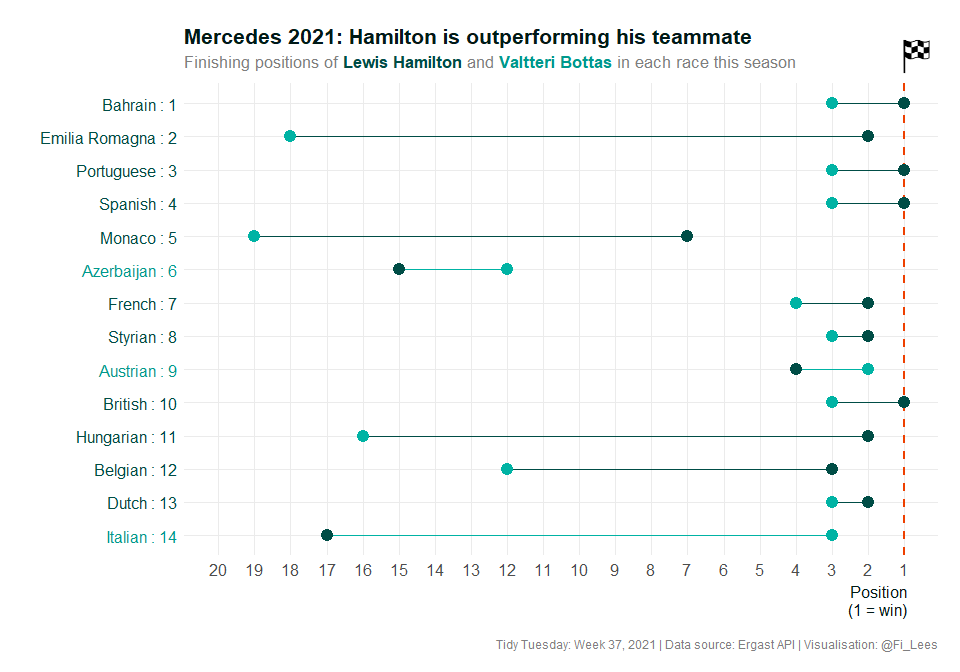
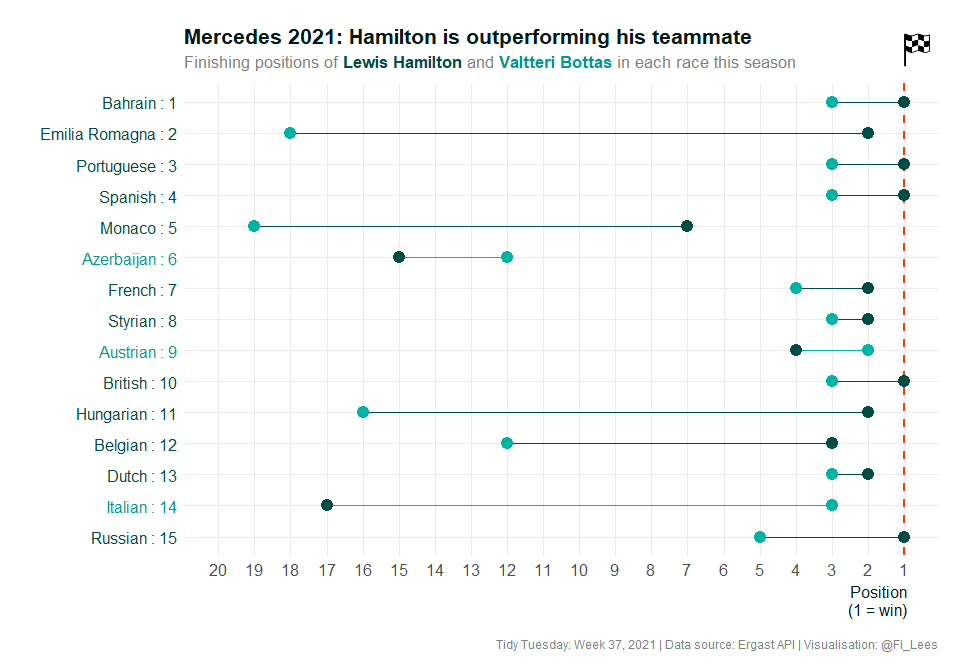
Adding most recent data

diff --git a/TT_2021_W37_Formula_1/README.md b/TT_2021_W37_Formula_1/README.md
@@ -1,3 +1,14 @@
+---
+title: "Tidy Tuesday: 2021, Week 37, Formula One"
+author: "Fiona Lees"
+date: 2021-09-27
+output: 
+  html_document: 
+    keep_md: yes
+---
+
+
+
 ## Formula One Motor Racing
 The data this week comes from the [Ergast API](https://ergast.com/mrd/db/#csv). The Ergast Developer API is an experimental web service that provides a historical record of motor racing data for non-commercial purposes. The API provides data for the Formula One series, from the beginning of the world championships in 1950 until present day.  
 
@@ -23,7 +34,7 @@ library(tidyverse)
 ```
 
 ### Import Data
-This week I'm importing the data directly from the Ergast website and storing it locally. 
+This week I'm importing the data directly from the Ergast website (so that I can use the most recent results). 
 
 
 ```r
@@ -173,7 +184,7 @@ results_new %>%
 ## 6  2018    21    21
 ## 7  2019    21    21
 ## 8  2020    16    17
-## 9  2021    14    14
+## 9  2021    15    15
 ```
 
   
@@ -267,7 +278,7 @@ results_new %>%
 ## 16  2018       42         42
 ## 17  2019       42         42
 ## 18  2020       34         34
-## 19  2021       28         28
+## 19  2021       30         30
 ```
 
   
@@ -294,7 +305,7 @@ constructor_results_new %>%
 
   
 **Q:** Where did the Mercedes and Red Bull drivers finish in each race this season (2021)?  
-**A:** Red Bull have finished first in eight races (Verstappen 7 wins, Pérez 1 win). Mercedes have finished first four times (Hamilton 4 wins, Bottas 0 wins). There have only been two races this season where either a Mercedes or Red Bull driver did not win.  
+**A:** Red Bull have finished first in eight races (Verstappen 7 wins, Pérez 1 win). Mercedes have finished first five times (Hamilton 5 wins, Bottas 0 wins). There have only been two races this season where a Mercedes or Red Bull driver did not win (races 11 and 14).  
 
 
 ```r
@@ -423,29 +434,26 @@ Mercedes_2021 <- results_new %>%
   # Add the checkered flag image to sit above the 'finishing line'
   patchwork::inset_element(
     p = check_flag_image,
-    l = 0.939,
+    l = 0.94,
     b = 0.89,
     r = 0.99,
-    t = 0.97,
+    t = 0.99,
     align_to = "full"
   ) 
 
 Mercedes_2021
 ```
 
-<img src="README_files/figure-html/Visualise_mercedes_2021-1.png" width="100%" style="display: block; margin: auto;" />
+<img src="README_files/figure-html/Visualise_mercedes_2021-1.png" title="Connected dot plot (also known as a dumbbell plot), showing the finishing positions of Formula 1 Mercedes drivers Lewis Hamilton and Valtteri Bottas in each race this season. Hamilton has won five out fifteen races in the 2021 season so far. Bottas hasn't won any races yet, but has finished ahead of Hamilton in three races." alt="Connected dot plot (also known as a dumbbell plot), showing the finishing positions of Formula 1 Mercedes drivers Lewis Hamilton and Valtteri Bottas in each race this season. Hamilton has won five out fifteen races in the 2021 season so far. Bottas hasn't won any races yet, but has finished ahead of Hamilton in three races." width="100%" style="display: block; margin: auto;" />
 
 Save this visualisation:
 
 
 ```r
-ggsave("Mercedes_2021.png", Mercedes_2021, width = 12, height = 8, units = "in")
+ggsave("Mercedes_2021.png", Mercedes_2021, width = 12, height = 8, units = "in", dpi = 300)
 ```
 
-**Alt text for Mercedes_2021.png:**
-Connected dot plot (also known as a dumbbell plot), showing the finishing positions of Formula 1 Mercedes drivers Lewis Hamilton and Valtteri Bottas in each race this season (2021). Hamilton has won four out fourteen races in the 2021 season. Bottas hasn't won any yet, but has finished ahead of Hamilton in three races. The 2021 season hasn't finished yet. Data sourced from Ergast API (https://ergast.com/mrd/db/#csv).
 
-  
   
 #### Mercedes vs. Red Bull 2021
 
@@ -489,7 +497,7 @@ Mercedes_Redbull_2021 <- results_new %>%
   coord_flip() +
   patchwork::inset_element(
     p = check_flag_image,
-    l = 0.939,
+    l = 0.94,
     b = 0.85,
     r = 0.99,
     t = 0.95,
@@ -499,16 +507,15 @@ Mercedes_Redbull_2021 <- results_new %>%
 Mercedes_Redbull_2021
 ```
 
-<img src="README_files/figure-html/Visualise_mercedes_Redbull_2021-1.png" width="100%" style="display: block; margin: auto;" />
+<img src="README_files/figure-html/Visualise_mercedes_Redbull_2021-1.png" title="Connected dot plot (also known as a dumbbell plot), showing the finishing positions of Formula 1 Mercedes and Red Bull drivers in each race this season (2021). Red Bull have finished first in eight races (Verstappen 7 wins, Pérez 1 win). Mercedes have finished first five times (Hamilton 5 wins, Bottas 0 wins). There have only been two races this season where a Mercedes or Red Bull driver did not win." alt="Connected dot plot (also known as a dumbbell plot), showing the finishing positions of Formula 1 Mercedes and Red Bull drivers in each race this season (2021). Red Bull have finished first in eight races (Verstappen 7 wins, Pérez 1 win). Mercedes have finished first five times (Hamilton 5 wins, Bottas 0 wins). There have only been two races this season where a Mercedes or Red Bull driver did not win." width="100%" style="display: block; margin: auto;" />
 Save this visualisation:
 
 
 ```r
-ggsave("Mercedes_Redbull_2021.png", Mercedes_Redbull_2021, width = 12, height = 8, units = "in")
+ggsave("Mercedes_Redbull_2021.png", Mercedes_Redbull_2021, width = 12, height = 8, units = "in", dpi = 300)
 ```
 
-**Alt text for Mercedes_2021.png:**
-Connected dot plot (also known as a dumbbell plot), showing the finishing positions of Formula 1 Mercedes and Red Bull drivers in each race this season (2021). Red Bull have finished first in eight races (Verstappen 7 wins, Pérez 1 win). Mercedes have finished first four times (Hamilton 4 wins, Bottas 0 wins). There have only been two races this season where a Mercedes or Red Bull driver did not win. The 2021 season hasn't finished yet. Data sourced from Ergast API (https://ergast.com/mrd/db/#csv).
+
 
 
 
